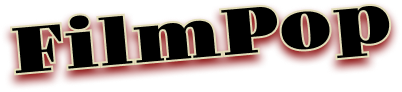
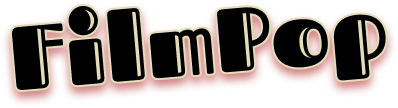
updated title & button

diff --git a/frontend/app/index.tsx b/frontend/app/index.tsx
@@ -56,7 +56,7 @@ const styles=StyleSheet.create({
   titleImage: {
     position: 'absolute',
     width: '90%',
-    height: 90,
+    height: 100,
     top: '40%',
     alignSelf: 'center',
   },
